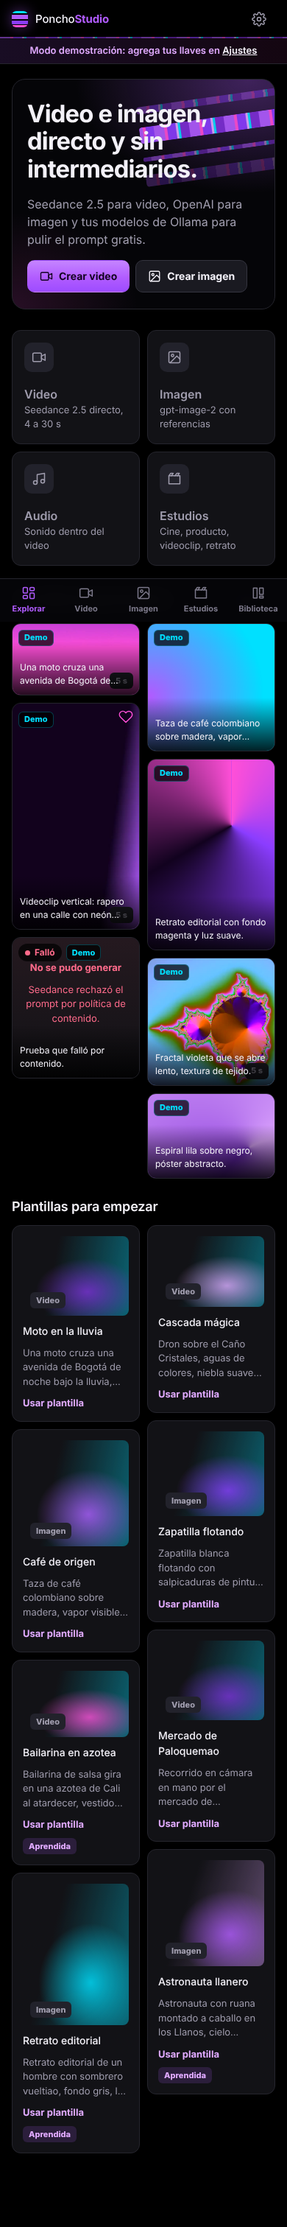
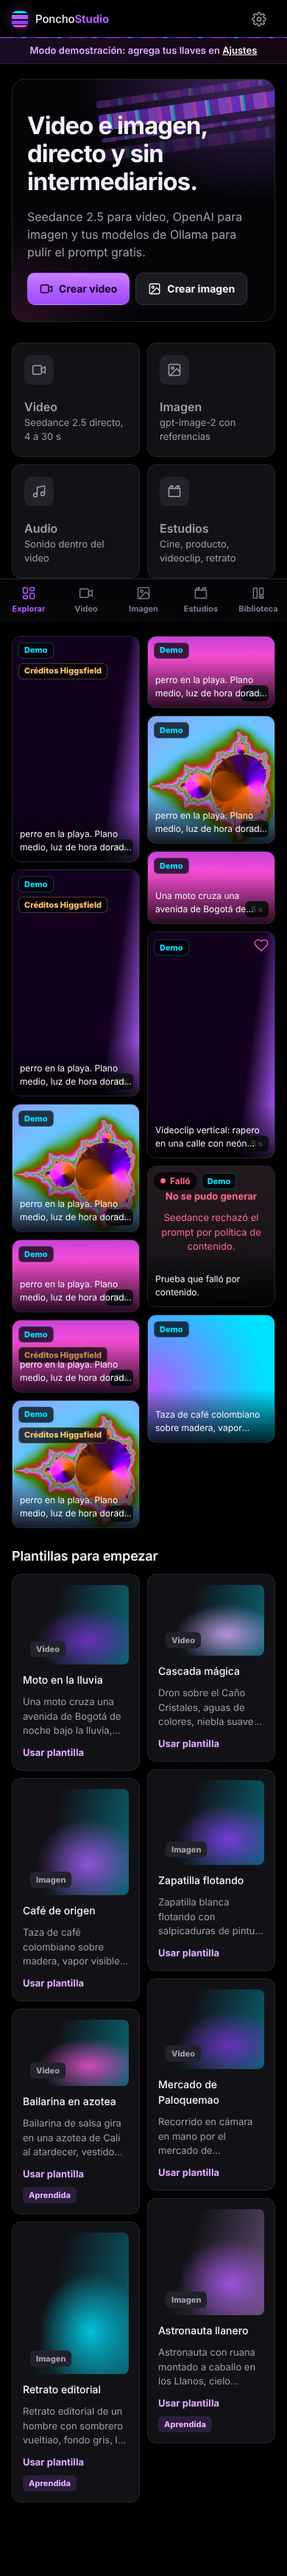
Catálogo real de Higgsfield (26 modelos) y aprender sin prompts en el historial
Claude-Session: https://claude.ai/code/session_01DknfU1T4PHr4HztToWDa74

diff --git a/app/static/estilos.css b/app/static/estilos.css
@@ -394,6 +394,10 @@ select.entrada { appearance: none; padding-right: 36px;
 .hero h1 { font-size: clamp(30px, 8.4vw, 64px); font-weight: 700; max-width: 14ch; letter-spacing: -.025em; position: relative; }
 .hero p { color: var(--suave); max-width: 46ch; position: relative; font-size: 16px; }
 .hero-acciones { display: flex; gap: 8px; flex-wrap: wrap; position: relative; }
+@media (max-width: 599px) {
+  .hero { min-height: 330px; }
+  .hero-tejido { top: 10px; height: 84px; width: 78%; opacity: .6; }
+}
 @media (min-width: 900px) { .hero { padding: 44px 40px 36px; min-height: 340px; } .hero-tejido { top: 46px; height: 150px; } }
 
 .accesos { display: grid; grid-template-columns: repeat(2, 1fr); gap: 10px; }
